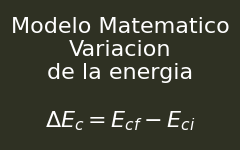
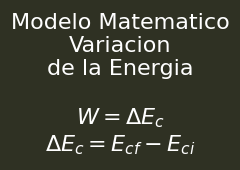
formulas

diff --git a/main.py b/main.py
@@ -62,6 +62,7 @@ formulas.append(Image.open("formulas/SimbologiaW.png"))
 formulas.append(Image.open("formulas/SimbologiaEc.png"))
 formulas.append(Image.open("formulas/SimbologiaDelta.png"))
 formulas.append(Image.open("formulas/SimbologiaRoce.png"))
+formulas.append(Image.open("formulas/TrabajoNetoCinetica.png"))
 #utilizamos la expresion ImageTK.PhotoImage para que tome un elemento de la lista "Formulas" para
 #transformar las imagenes de la lista en una PhotoImage para asi utilizar las fotos agregadas
 imagenes = [ImageTk.PhotoImage(formula) for formula in formulas]
@@ -74,7 +75,6 @@ for imagen in imagenes:
 #esta variable se usa para controlar si se muestran las formulas o no
 formulasVar = tk.IntVar()
 simbologiaVar = tk.IntVar()
-
 #verifica si al apretar el boton de mostrar formulas se muestren las formulas cuando presiones 
 #los botones de lo que quieras calcular, las posiciona en cierta parte de la pantalla
 #y tambien usa el place_forget para que al apretar otro boton se oculten las formulas
@@ -95,10 +95,11 @@ def formulas():
             if simb == 1:
                 label_imagen[5].place(x=0,y=450) 
             if roce == 1:
-                label_imagen[3].place(x=0, y=450)
+                label_imagen[3].place(x=960, y=430)
+                label_imagen[4].place(x=0, y=560)
                 label_imagen[5].place_forget()
                 if simb == 1:
-                    label_imagen[8].place(x=0, y=600)
+                    label_imagen[8].place(x=0, y=690)
                 else:
                     label_imagen[5].place_forget()
         if choice == 'MV':
@@ -108,7 +109,15 @@ def formulas():
         if choice == 'VEc':
             label_imagen[2].place(x=0,y=300)
             if simb == 1:
-                label_imagen[7].place(x=0,y=450)
+                label_imagen[7].place(x=0,y=480)
+            if roce == 1:
+                label_imagen[3].place(x=0,y=460)
+                label_imagen[9].place(x=0,y=600)
+                label_imagen[7].place_forget()
+                if simb ==1:
+                    label_imagen[7].place(x=0, y=690)
+                else:
+                    label_imagen[7].place_forget()
         if choice == 'Manual':
             label_imagen[0].place(x=0,y=300)
             if simb == 1:
